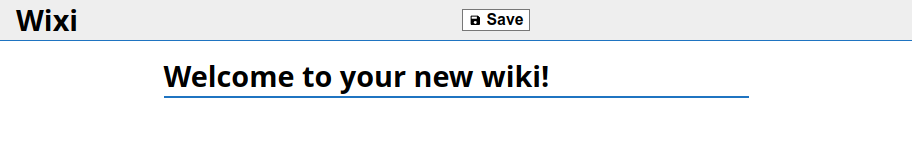
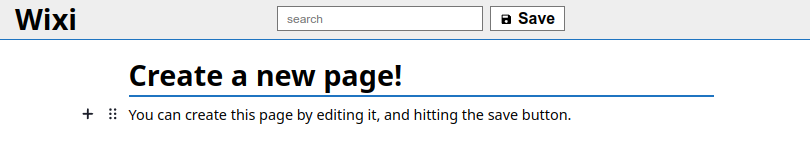
Fixed home click, made header more mobile friendly, and added updated screenshot.

diff --git a/public/css/index.css b/public/css/index.css
@@ -6,59 +6,80 @@ a {
 	color: #1f74c1;
 }
 header {
-	position: fixed;
-	background-color: #eee;
-	width: 100%;
-	height: 44px;
-	overflow: hidden;
-	display: grid;
-	border-bottom: 1px solid #1f74c1;
-	align-items: center;
+	container-type: inline-size;
 
-	> * {
-		grid-area: 1 / 1;
-	}
+	> div {
+		position: fixed;
+		background-color: #eee;
+		width: 100%;
+		height: 44px;
+		overflow: hidden;
+		display: grid;
+		border-bottom: 1px solid #1f74c1;
+		align-items: center;
 
-	h1 {
-		margin: 0;
-		padding-left: 20px;
-		border-bottom: 0;
+		> * {
+			grid-area: 1 / 1;
+		}
 
-		a {
-			color: black;
-			text-decoration: none;
+		> div:first-child {
+			position: absolute;
+		}
 
-			&:hover {
-				color: #1f74c1;
-				text-decoration: underline;
+		h1 {
+			margin: 0;
+			padding-left: 20px;
+			border-bottom: 0;
+
+			a {
+				color: black;
+				text-decoration: none;
+
+				&:hover {
+					color: #1f74c1;
+					text-decoration: underline;
+				}
+			}
+		}
+
+		button {
+			align-items: center;
+			display: grid;
+			grid-template-columns: auto auto;
+			gap: 6px;
+			font-size: 1.1rem;
+			font-weight: bold;
+			transition: background-color .5s ease-in-out;
+			background-color: #fff;
+			border: 1px solid #777;
+
+			&.saved {
+				background-color: #0c0;
+				transition: unset;
+			}
+			&.error {
+				background-color: #c00;
+				transition: unset;
+			}
+
+			svg {
+				height: 14px;
+				width: 14px;
+				fill: black;
 			}
 		}
 	}
 
-	button {
-		align-items: center;
-		display: grid;
-		grid-template-columns: auto auto;
-		gap: 6px;
-		font-size: 1.1rem;
-		font-weight: bold;
-		transition: background-color .5s ease-in-out;
-		background-color: #fff;
-		border: 1px solid #777;
+	@container (max-width: 650px) {
+		> div {
+			grid-template-columns: auto 1fr;
 
-		&.saved {
-			background-color: #0c0;
-			transition: unset;
-		}
-		&.error {
-			background-color: #c00;
-			transition: unset;
-		}
-
-		svg {
-			height: 14px;
-			width: 14px;
-			fill: black;
+			> div:first-child {
+				position: unset;
+			}
+			> * {
+				grid-area: unset;
+			}
 		}
 	}
 }
@@ -96,7 +117,7 @@ header {
 #toptools {
 	div {
 		width: 320px;
-		max-width: calc(100vw - 30px);
+		max-width: calc(100cqw - 110px);
 		margin-inline: auto;
 		display: grid;
 		grid-template-columns: 1fr auto;

diff --git a/canvas/pc.php b/canvas/pc.php
@@ -44,19 +44,21 @@ Canvas::title(Config::get('sitename'));
 	<body>
 		<header>
 			<div>
-				<h1><a href="<?=BASE_PATH?>">Wixi</a></h1>
-			</div>
-			<div id="toptools">
 				<div>
-					<form action="<?=BASE_PATH?>">
-						<input name="q" type="search" value="<?=(isset($_GET['q']) ? htmlspecialchars($_GET['q']) : '')?>" placeholder="search"/>
-					</form>
-					<button data-editorjs="save">
-						<svg xmlns="http://www.w3.org/2000/svg" viewBox="0 0 24 24">
-							<path d="M17 3H5c-1.11 0-2 .9-2 2v14c0 1.1.89 2 2 2h14c1.1 0 2-.9 2-2V7l-4-4zm-5 16c-1.66 0-3-1.34-3-3s1.34-3 3-3 3 1.34 3 3-1.34 3-3 3zm3-10H5V5h10v4z"/>
-						</svg>
-						Save
-					</button>
+					<h1><a href="<?=BASE_PATH?>">Wixi</a></h1>
+				</div>
+				<div id="toptools">
+					<div>
+						<form action="<?=BASE_PATH?>">
+							<input name="q" type="search" value="<?=(isset($_GET['q']) ? htmlspecialchars($_GET['q']) : '')?>" placeholder="search"/>
+						</form>
+						<button data-editorjs="save">
+							<svg xmlns="http://www.w3.org/2000/svg" viewBox="0 0 24 24">
+								<path d="M17 3H5c-1.11 0-2 .9-2 2v14c0 1.1.89 2 2 2h14c1.1 0 2-.9 2-2V7l-4-4zm-5 16c-1.66 0-3-1.34-3-3s1.34-3 3-3 3 1.34 3 3-1.34 3-3 3zm3-10H5V5h10v4z"/>
+							</svg>
+							Save
+						</button>
+					</div>
 				</div>
 			</div>
 		</header>
